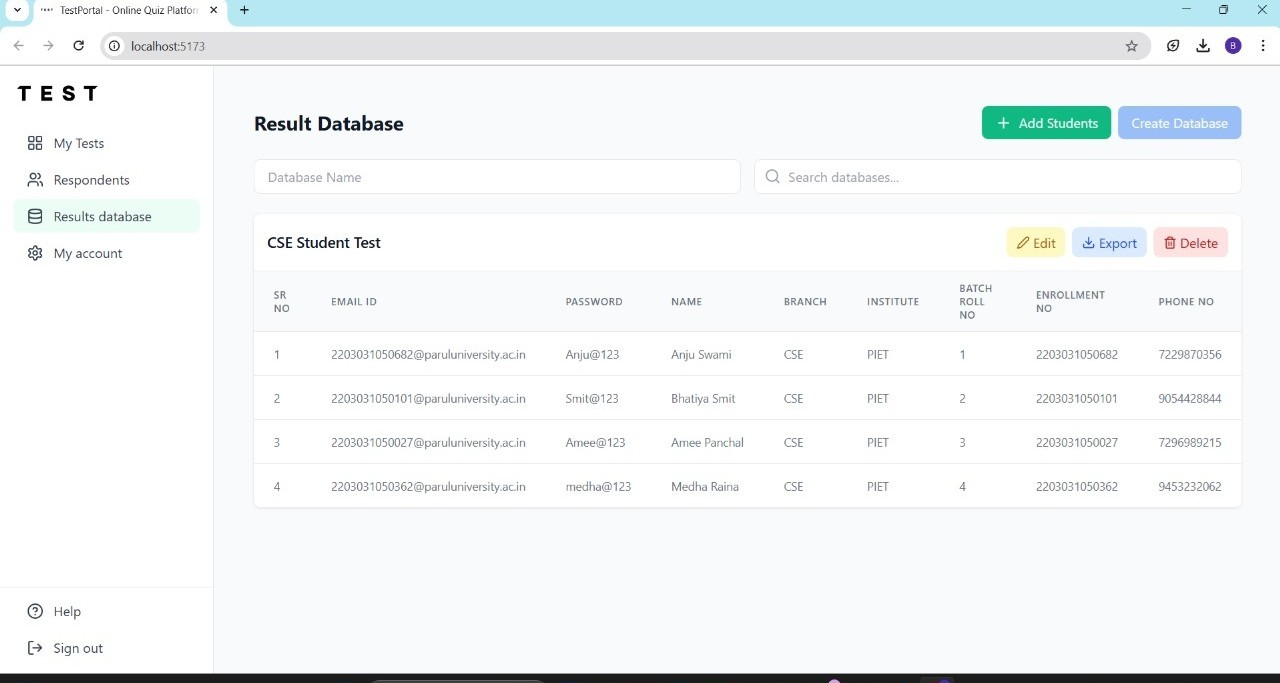
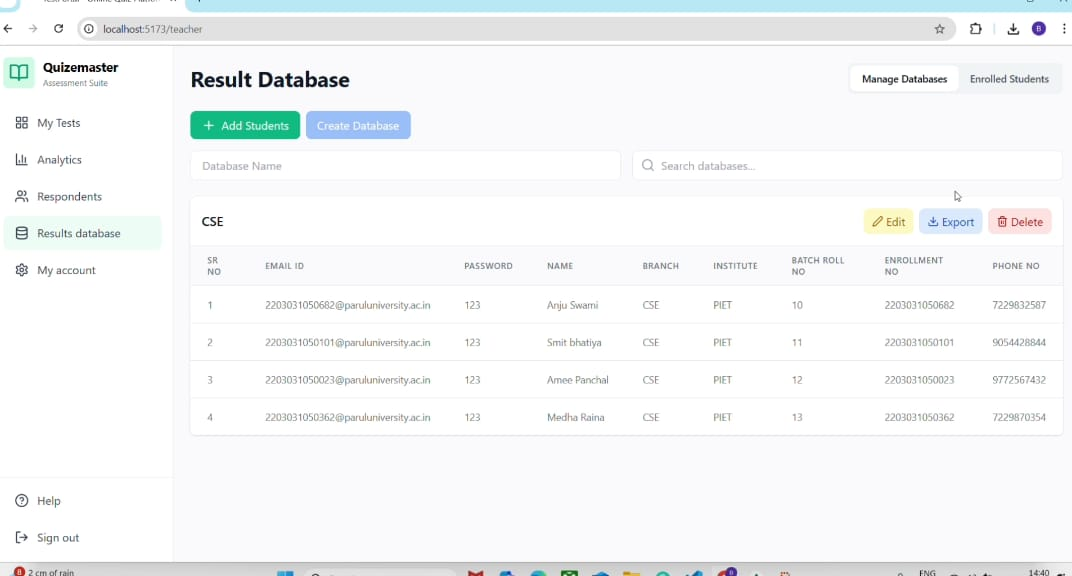
last

diff --git a/Frontend/src/components/Sidebar.jsx b/Frontend/src/components/Sidebar.jsx
@@ -1,5 +1,5 @@
 import PropTypes from 'prop-types';
-import { LayoutGrid, Users, Database, Settings, HelpCircle, LogOut, BarChart3 } from 'lucide-react';
+import { LayoutGrid, Users, Database, Settings, HelpCircle, LogOut, BarChart3, BookOpen } from 'lucide-react';
 
 const Sidebar = ({ onLogout, onNavigate, currentView }) => {
   const menuItems = [
@@ -17,8 +17,14 @@ const Sidebar = ({ onLogout, onNavigate, currentView }) => {
 
   return (
     <div className="w-64 bg-white h-screen flex flex-col border-r fixed">
-      <div className="p-4">
-        <img src="/logo.svg" alt="TestPortal" className="h-8" />
+      <div className="p-4 flex items-center gap-3">
+        <div className="p-2 rounded-md bg-emerald-100 text-emerald-600">
+          <BookOpen size={28} />
+        </div>
+        <div className="flex flex-col">
+          <span className="text-lg font-bold">Quizemaster</span>
+          <span className="text-xs text-gray-500">Assessment Suite</span>
+        </div>
       </div>
       
       <nav className="flex-1 px-4 py-2 overflow-y-auto">

diff --git a/Frontend/src/components/LandingPage.jsx b/Frontend/src/components/LandingPage.jsx
@@ -1,11 +1,12 @@
 import React, { useState } from 'react';
 import studentImage from './photos/Student_Endroll.jpg';
 import Default_Test from './photos/Default_Test.png';
-import Test from './photos/test.jpg';
+import Test from './photos/test.png';
 import Medha from './photos/Medha.jpg';
 import amee from './photos/amee.jpg';
 import anju from './photos/anju.jpg';
 import smit from './photos/smit3.jpg';
+import Dashboard from './photos/Dashboard.png';
 import { 
   BookOpen, 
   Users, 
@@ -48,7 +49,7 @@ const LandingPage = ({ onLogin }) => {
       icon: PieChart,
       title: "Performance Analytics",
       description: "Comprehensive dashboards provide detailed insights into student performance, identifying strengths and areas for improvement.",
-      image: "https://images.pexels.com/photos/590022/pexels-photo-590022.jpeg?auto=compress&cs=tinysrgb&w=400"
+      image: Dashboard
     }
   ];
 

diff --git a/Frontend/src/components/StudentSidebar.jsx b/Frontend/src/components/StudentSidebar.jsx
@@ -16,8 +16,14 @@ const StudentSidebar = ({ currentSection, onSectionChange, onLogout }) => {
 
   return (
     <div className="w-64 bg-white h-screen flex flex-col border-r sticky top-0">
-      <div className="p-4 flex items-center justify-between">
-        <img src="/logo.svg" alt="TestPortal" className="h-6 md:h-8" />
+      <div className="p-4 flex items-center gap-3">
+        <div className="p-2 rounded-md bg-emerald-100 text-emerald-600">
+          <BookOpen size={28} />
+        </div>
+        <div className="flex flex-col">
+          <span className="text-lg font-bold">Quizemaster</span>
+          <span className="text-xs text-gray-500">Assessment Suite</span>
+        </div>
       </div>
       
       <nav className="flex-1 px-2 md:px-4 py-2 overflow-y-auto">
